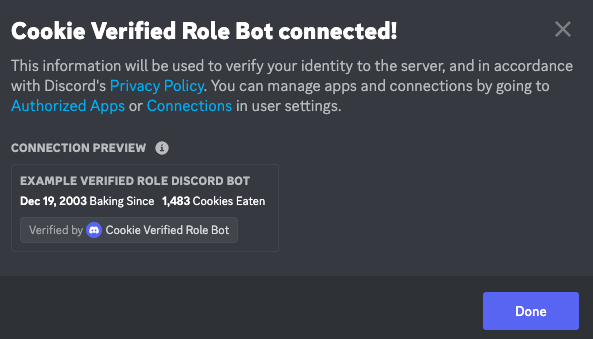
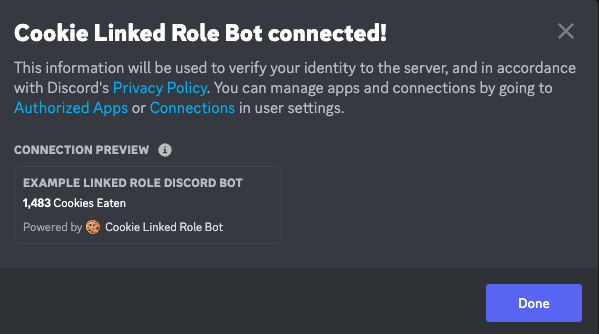
docs: update copy and screenshots (#4)

diff --git a/src/server.js b/src/server.js
@@ -25,7 +25,7 @@ import * as storage from './storage.js';
  * To start the flow, generate the OAuth2 consent dialog url for Discord, 
  * and redirect the user there.
  */
-app.get('/verified-role', async (req, res) => {
+app.get('/linked-role', async (req, res) => {
   const { url, state } = discord.getOAuthUrl();
 
   // Store the signed state param in the user's cookies so we can verify
@@ -121,7 +121,7 @@ async function updateMetadata(userId) {
     // If fetching the profile data for the external service fails for any reason,
     // ensure metadata on the Discord side is nulled out. This prevents cases
     // where the user revokes an external app permissions, and is left with
-    // stale verified role data.
+    // stale linked role data.
   }
 
   // Push the data to Discord.

diff --git a/src/discord.js b/src/discord.js
@@ -120,7 +120,7 @@ export async function pushMetadata(userId, tokens, metadata) {
   const url = `https://discord.com/api/v10/users/@me/applications/${config.DISCORD_CLIENT_ID}/role-connection`;
   const accessToken = await getAccessToken(userId, tokens);
   const body = {
-    platform_name: 'Example Verified Role Discord Bot',
+    platform_name: 'Example Linked Role Discord Bot',
     metadata,
   };
   const response = await fetch(url, {

diff --git a/README.md b/README.md
@@ -123,7 +123,7 @@ $ node src/register.js
 Now that you've built your bot, let's give it a try both from the server owner and the user's perspective.
 
 ### Creating the linked role
-To try out our bot, we're going to create a linked role in a server where you have admin permissions.  Open up the server settings, select roles, and click on `Create Role`.  Give the role a name, save it, then click on `Verification`.  Click the `Add verification` button, and you should see your bot in the list of available Apps.  Click on it, and you will see a setup screen where you can configure specific criteria for your role.
+To try out our bot, we're going to create a linked role in a server where you have admin permissions.  Open up the server settings, select roles, and click on `Create Role`.  Give the role a name, save it, then click on `Links`.  Click the `Add requirement` button, and you should see your bot in the list of available Apps.  Click on it, and you will see a setup screen where you can configure specific criteria for your role.
 
 ![Verification Setup](assets/verification-setup.png "Verification Setup")
 
